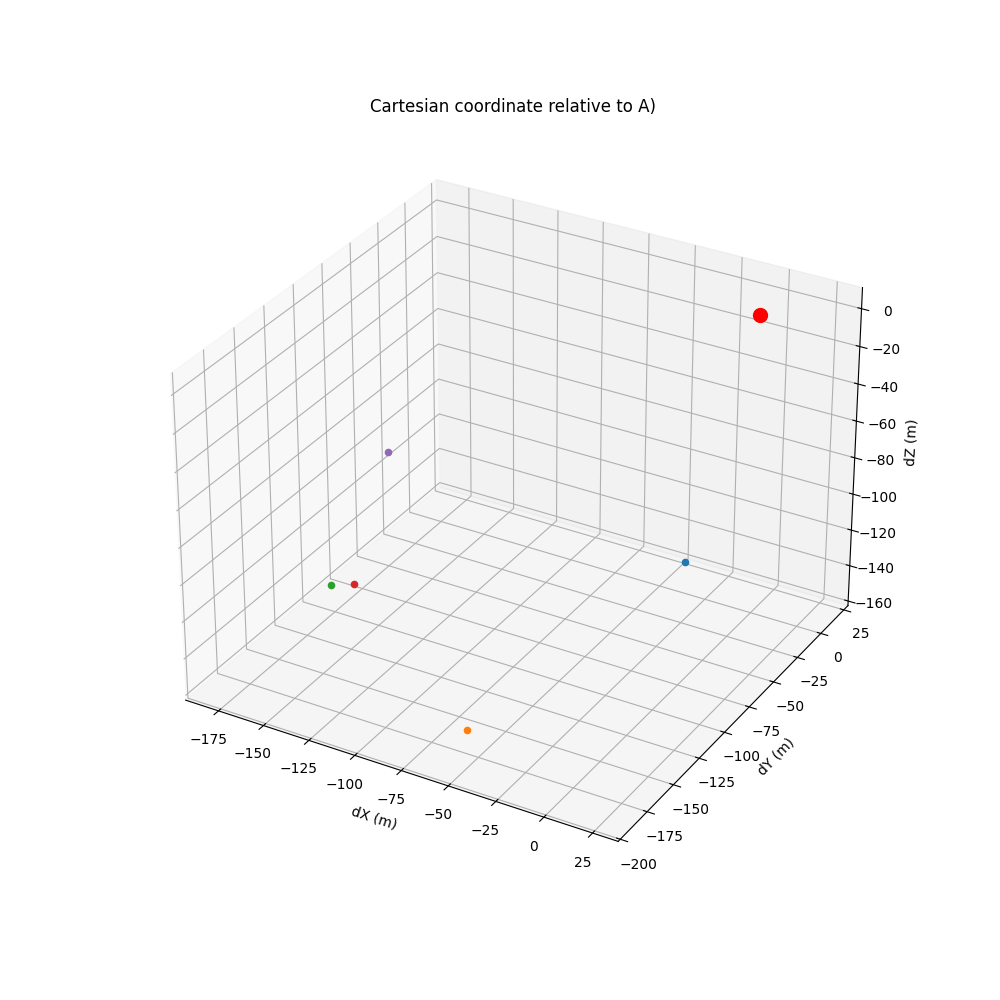
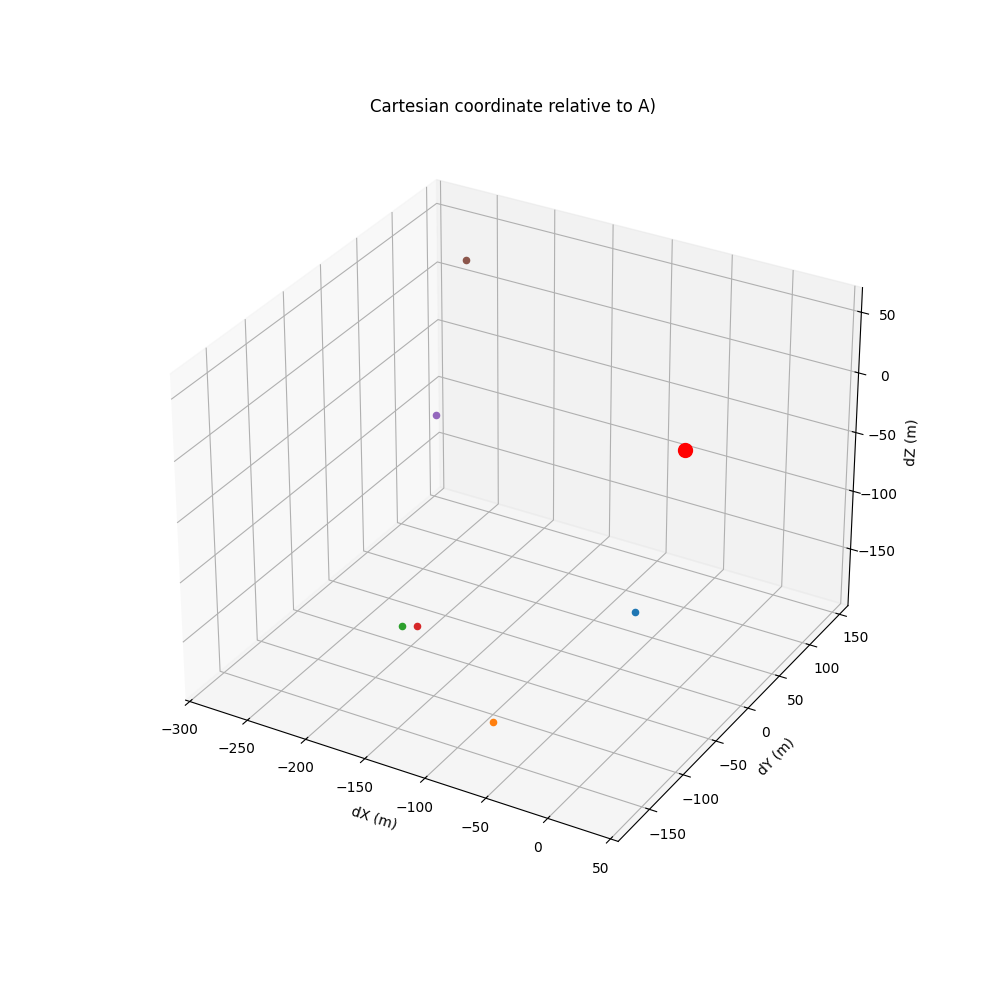
Completion

diff --git a/Plots/Plot_Code/cartesian_plot.py b/Plots/Plot_Code/cartesian_plot.py
@@ -7,7 +7,8 @@ points = {
     "C": (-1641950.82390876, -3665089.36276137, 4939785.8960614605),
     "D": (-1642065.46956152, -3665023.83659307, 4939794.32236649),
     "E": (-1642055.3368, -3665019.3469, 4939795.45006649),
-    "G": (-1642063.0380049, -3664974.06357916, 4939844.188878341),
+    "F": (-1642128.21048073, -3664869.1467997297, 4939877.413752031),
+    "G": (-1642157.58657078, -3664775.4332133, 4939959.35055212),
 }
 
 dxyz = {}

diff --git a/Data/data_info.md b/Data/data_info.md
@@ -142,6 +142,22 @@ Y: -234.15663522
 
 Z: -13.75097484
 
+# Coordinate delta F 
+
+X: -235.13860941
+
+Y: 47.8627658
+
+Z: -60.03326094
+
+# Coordinate F
+
+X: -1642128.21048073
+
+Y: -3664869.1467997297
+
+Z: 4939877.413752031
+
 # Local G (NAD83)
 
 X: -153.163
@@ -184,4 +200,8 @@ Z: 4939844.188878341
 
 OR 
 
-X:
+X: -1642157.58657078
+
+Y: -3664775.4332133
+
+Z: 4939959.35055212

diff --git a/README.md b/README.md
@@ -1,1 +1,17 @@
 # G-Hacks
+
+FINAL LOCATION : 
+
+X: -1642063.0380049
+
+Y: -3664974.06357916
+
+Z: 4939844.188878341
+
+OR 
+
+X: -1642157.58657078
+
+Y: -3664775.4332133
+
+Z: 4939959.35055212
